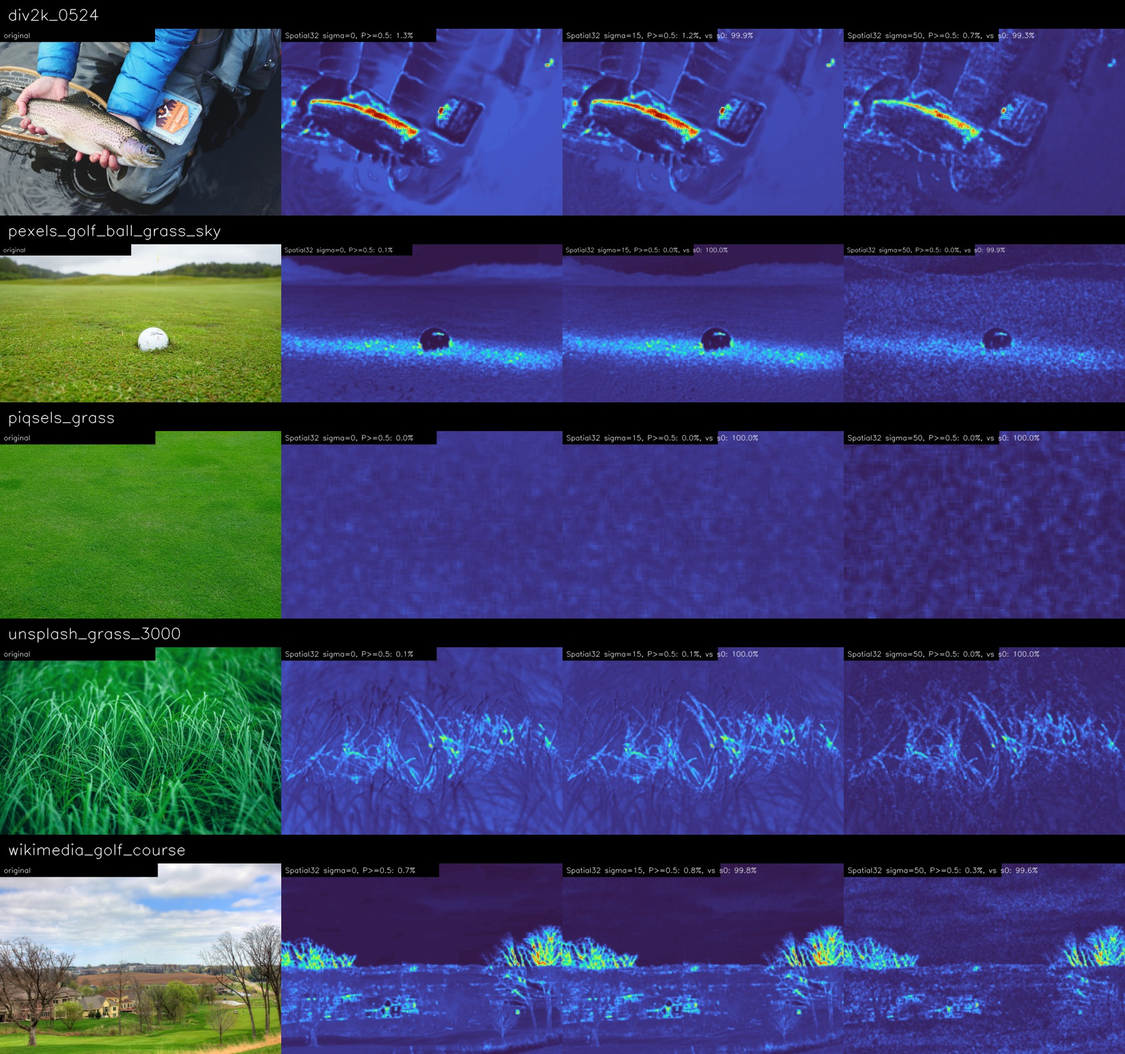
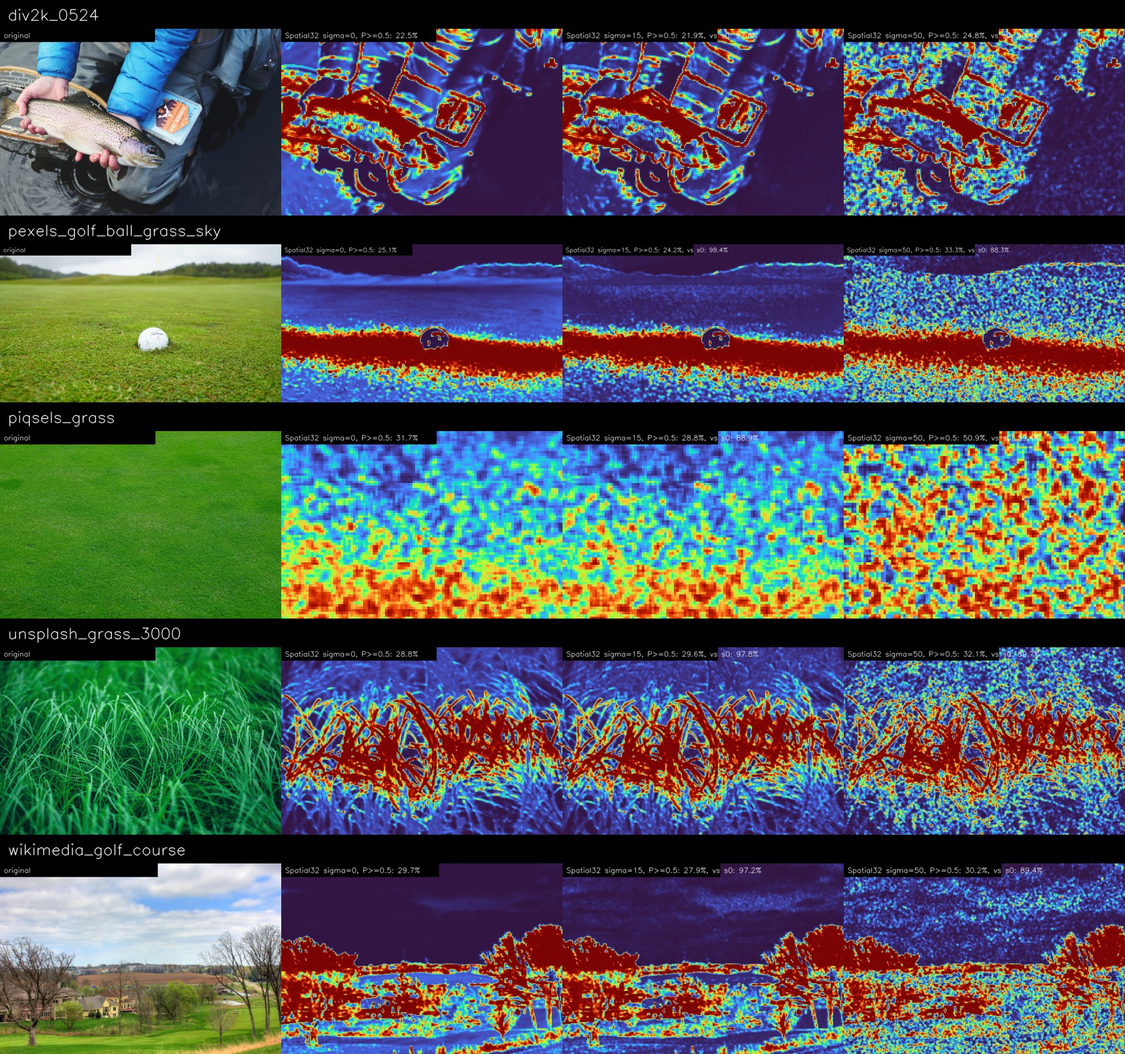
Fix Spatial32 inference normalization

diff --git a/tests/test_core.py b/tests/test_core.py
@@ -115,14 +115,14 @@ class CoreTests(unittest.TestCase):
         self.assertEqual(tile_starts(100, 64, 40)[-1], 36)
 
     def test_spatial32_blockwise_map_preserves_native_shape(self) -> None:
-        class ZeroLogitModel(torch.nn.Module):
+        class MeanLogitModel(torch.nn.Module):
             def forward(self, context: torch.Tensor) -> torch.Tensor:
-                return torch.zeros(context.shape[0], device=context.device)
+                return context.mean(dim=(1, 2, 3))
 
-        gray = np.arange(19 * 25, dtype=np.uint8).reshape(19, 25)
+        gray = np.full((19, 25), 255, dtype=np.uint8)
         probability, noisy = infer_blockwise(
             gray,
-            ZeroLogitModel(),
+            MeanLogitModel(),
             torch.device("cpu"),
             batch_size=4,
             sigma=0.0,
@@ -130,7 +130,8 @@ class CoreTests(unittest.TestCase):
         )
         self.assertEqual(probability.shape, gray.shape)
         self.assertEqual(noisy.shape, gray.shape)
-        np.testing.assert_allclose(probability, 0.5)
+        expected = torch.sigmoid(torch.tensor(2.0)).item()
+        np.testing.assert_allclose(probability, expected)
         np.testing.assert_allclose(noisy, gray.astype(np.float32) / 255.0)
 
 

diff --git a/infer_spatial32_dense.py b/infer_spatial32_dense.py
@@ -86,6 +86,9 @@ def infer_blockwise(
             [padded[y : y + context_size, x : x + context_size] for y, x in batch_coordinates]
         )
         tensor = torch.from_numpy(contexts[:, None]).to(device)
+        # Match train_robust_patch.prepare_inputs exactly. The classifier was
+        # never trained on raw [0, 1] tensors.
+        tensor = (tensor - 0.5) / 0.25
         probabilities = torch.sigmoid(model(tensor)).cpu().numpy()
         for probability, (y, x) in zip(probabilities, batch_coordinates):
             block_probabilities[y // target_size, x // target_size] = probability
@@ -265,6 +268,7 @@ def main() -> None:
         "input_dir": str(args.input_dir),
         "device": str(device),
         "method": "non-overlapping 8x8 targets from 32x32 reflected contexts",
+        "input_normalization": "(luminance_[0,1] - 0.5) / 0.25",
         "resize": False,
         "sigmas": args.sigmas,
         "seed": args.seed,

diff --git a/README.md b/README.md
@@ -45,11 +45,11 @@ For dense maps, generator `G` reached `83.48%` binary agreement with the clean D
 ![Demo images across noise levels](results/robust_v2/freq_aware_seg_demo_noise_comparison.jpg)
 
 The strongest patch model was also evaluated densely by tiling its central
-`8x8` predictions at native resolution. It remains visually stable under
-noise, but predicts only 0–1.3% of these five full images as texture at the
-validation threshold `0.5`. This exposes a distribution gap between the
-extreme-Sobel patch benchmark and arbitrary full-image locations; the 97% patch
-accuracy must not be interpreted as dense-map accuracy.
+`8x8` predictions at native resolution. At sigma 15, its maps retain 95.97%
+binary agreement and 0.973 mean probability correlation with the clean-input
+maps. At sigma 50 these fall to 83.55% and 0.760, with visible noise false
+positives. Because the five demo images have no dense ground truth, the 97%
+extreme-patch accuracy must still not be interpreted as dense-map accuracy.
 
 ![Spatial 32x32 dense diagnostic](results/robust_v2/spatial32_demo_noise_comparison.jpg)
 
